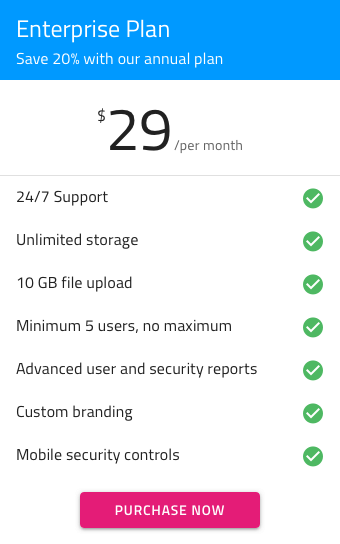
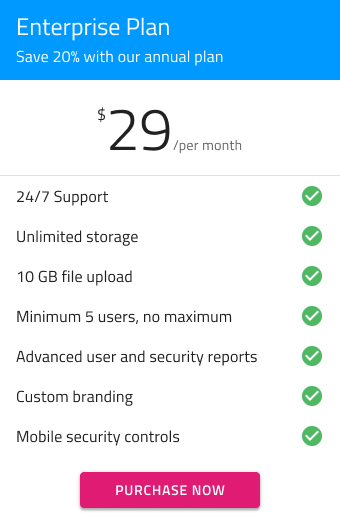
[35781] Patterns/Pricing Table: Remove Sketch and Adobe XD reference, replace image

diff --git a/en/patterns/pricing-table.md b/en/patterns/pricing-table.md
@@ -1,7 +1,8 @@
 ---
 title: Pricing Table - Design System Pattern
-_description: The Pricing Table Pattern Symbols display a Pricing table with price and list of features available.
-_keywords: Design Systems, Design Systems UX, UI kit, Sketch, Ignite UI for Angular, Sketch to Angular, Angular, Angular Design System, Export code from Sketch, Design Kits for Angular, Sketch HTML, Sketch to HTML, Sketch UI kits, Figma, Figma to Angular, Export code from Figma, Figma HTML, Figma to HTML, Figma UI kits
+_description: The Pricing Table Pattern Components display a Pricing table with price and list of features available.
+_keywords: Design Systems, Design Systems UX, UI kit, Ignite UI for Angular, Angular, Angular Design System, Design Kits for Angular, Figma, Figma to Angular, Export code from Figma, Figma HTML, Figma to HTML, Figma UI kits
+
 ---
 
 # Pricing Table
